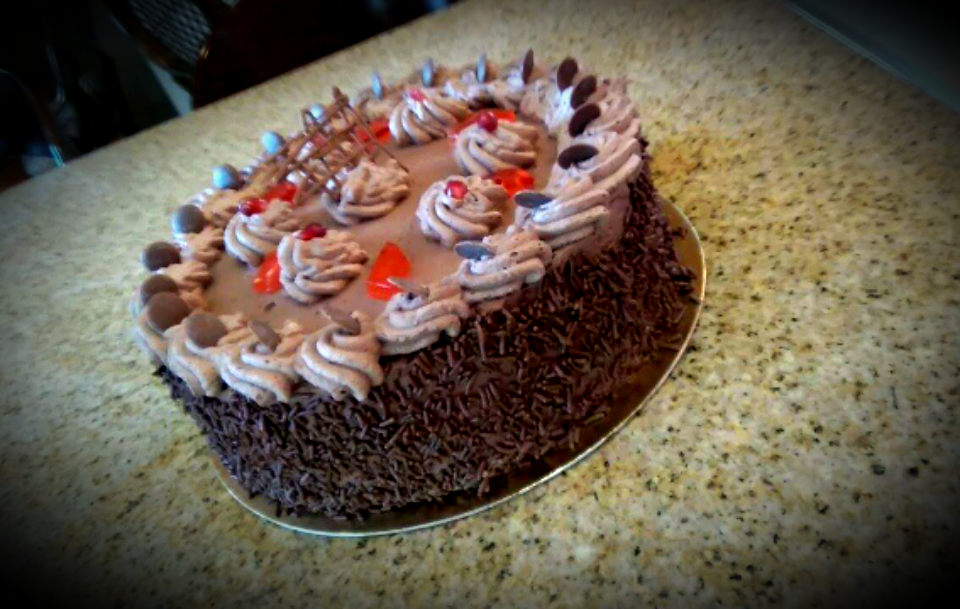
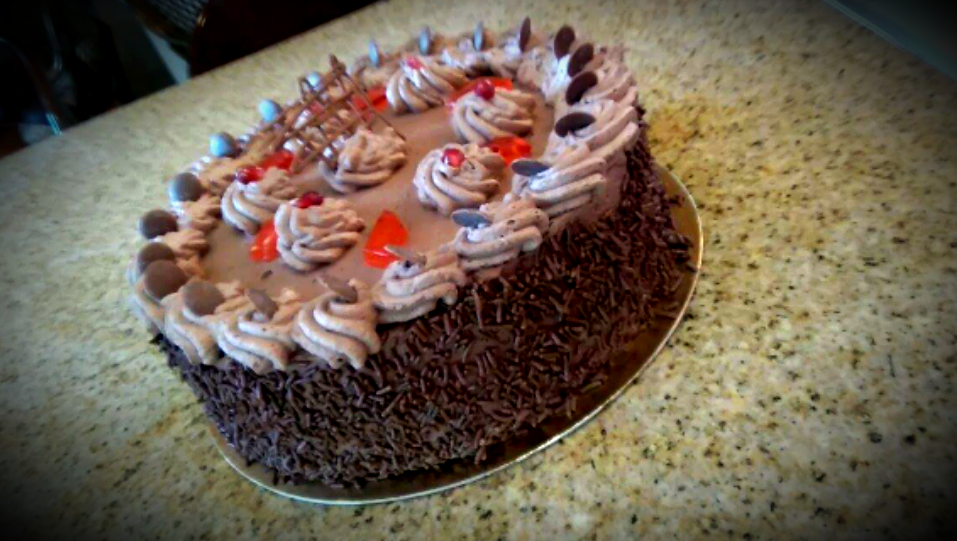
Rozmiary obrazkow

diff --git a/index.html b/index.html
@@ -148,11 +148,10 @@
              <li data-target="#carousel-example-generic" data-slide-to="2"></li>
              <li data-target="#carousel-example-generic" data-slide-to="3"></li>
              <li data-target="#carousel-example-generic" data-slide-to="4"></li>
-             <li data-target="#carousel-example-generic" data-slide-to="5"></li>
            </ol>
 
            <!-- Wrapper for slides -->
-           <div class="carousel-inner">
+           <div class="carousel-inner" style="height:545px">
              <div class="item active">
                <img class="img-responsive img-full" src="img/tort-1.jpg" alt="">
              </div>
